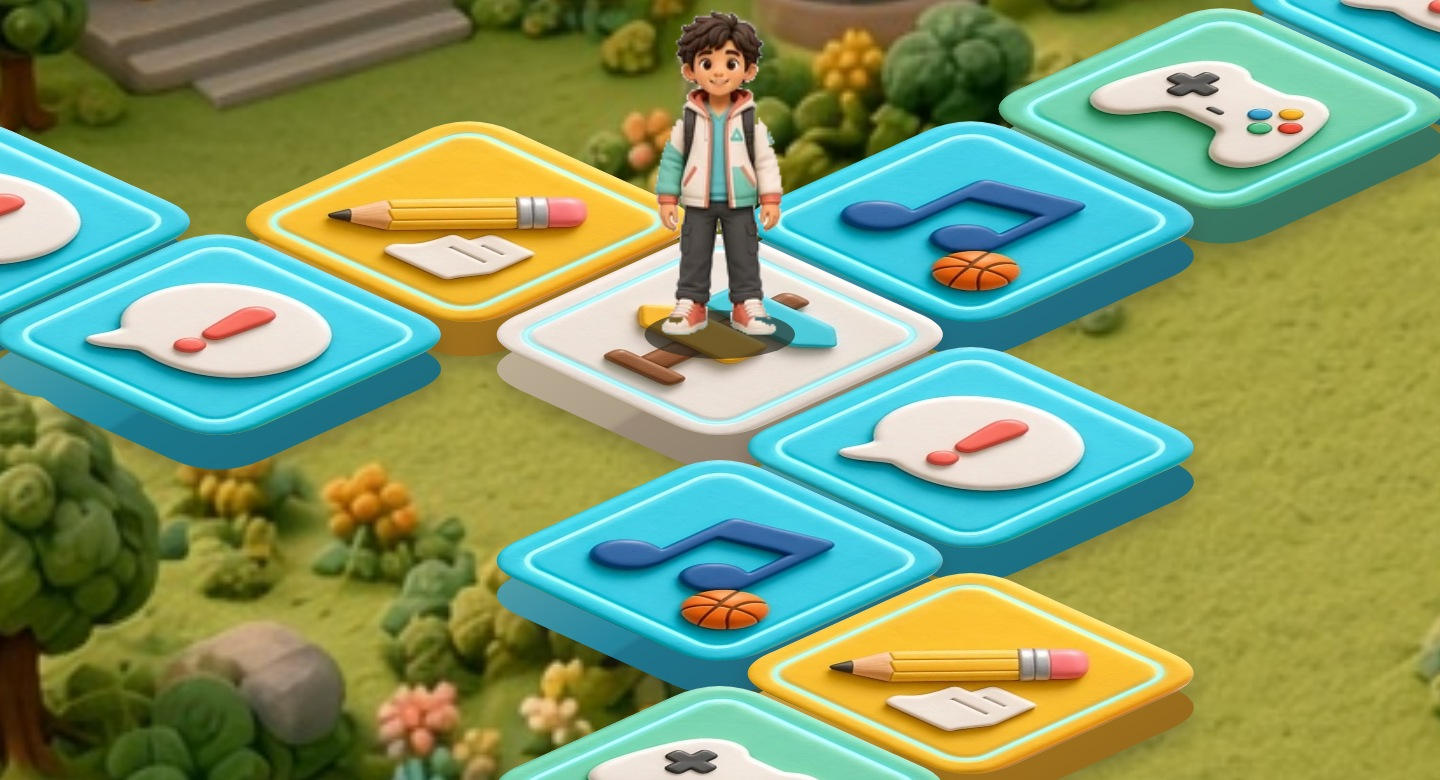
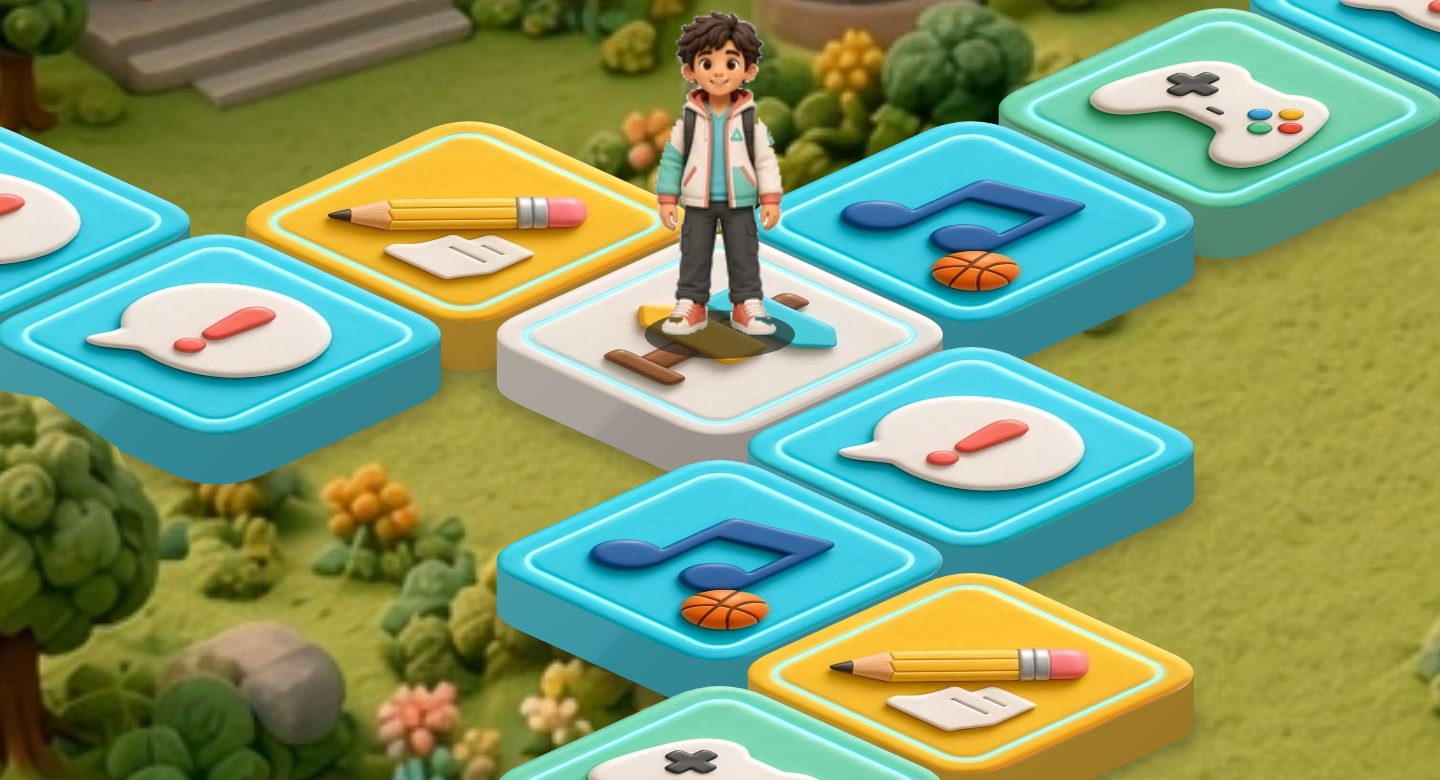
將地磚側壁改為實心厚板並補上接地陰影

diff --git a/src/board-view.ts b/src/board-view.ts
@@ -17,14 +17,14 @@ const sprite = (name: string) => sprites[`./board-art/${name}.webp`];
 type Pose = "stand" | "left" | "right" | "win";
 // Love art is part of the tilesheet, while the junior rules use seven kinds.
 const claySides = {
-  start: "#bb801d",
-  event: "#16869e",
-  game: "#398b71",
-  club: "#1a829d",
-  quiz: "#b7831b",
-  contest: "#bd5d32",
-  love: "#b34f60",
-  fork: "#a99a84",
+  start: "#af8727",
+  event: "#3293a1",
+  game: "#55947b",
+  club: "#3293a1",
+  quiz: "#af8727",
+  contest: "#af5e2e",
+  love: "#af5857",
+  fork: "#a59e97",
 } satisfies Record<TileKind | "love", string>;
 
 export function boardView(
@@ -36,7 +36,13 @@ export function boardView(
   debug: boolean,
   follow: (point: { x: number; y: number }) => void,
 ) {
-  const { centers, wall, tileTop } = measureTrack(layout);
+  const {
+    centers,
+    body,
+    footprint,
+    depth: thickness,
+    tileTop,
+  } = measureTrack(layout);
   const pawnWidth = (layout.pawnHeight * 116) / 197;
   const pawnLabel = gender === "boy" ? "男主角棋子" : "女主角棋子";
   const scenery = juniorScenery[orientation].map((object, id) => {
@@ -55,9 +61,9 @@ export function boardView(
       y: center.y,
       markup: `<g class="board-tile" data-depth="${center.y}" data-kind="${kind}" data-tile="${id}" role="img" aria-label="${tileLabels[kind]}">
         <g transform="translate(${center.x} ${center.y})">
-          <use href="#clay-wall" class="paver-shadow" transform="translate(0 1.6)"/>
-          <use href="#clay-wall" fill="${claySides[kind]}"/>
-          <use href="#clay-wall" fill="url(#clay-side-light)"/>
+          <use href="#clay-footprint" class="paver-shadow" transform="translate(0 ${thickness})"/>
+          <use href="#clay-body" fill="${claySides[kind]}"/>
+          <use href="#clay-body" fill="url(#clay-side-light)"/>
         </g>
         <image class="paver-top" href="${sprite(`${kind}-clay`)}" x="-.5" y="-.5" width="1" height="1" preserveAspectRatio="none" transform="${tileTop(center)}" clip-path="url(#clay-top)"/>
       </g>`,
@@ -66,17 +72,18 @@ export function boardView(
   svg.setAttribute("viewBox", `0 0 ${layout.width} ${layout.height}`);
   svg.innerHTML = `
     <defs>
-      <path id="clay-wall" d="${wall}"/>
+      <path id="clay-body" d="${body}"/>
+      <path id="clay-footprint" d="${footprint}"/>
       <clipPath id="clay-top" clipPathUnits="objectBoundingBox">
         <path d="M ${clayRadius} 0 H ${1 - clayRadius} Q 1 0 1 ${clayRadius}
           V ${1 - clayRadius} Q 1 1 ${1 - clayRadius} 1 H ${clayRadius}
           Q 0 1 0 ${1 - clayRadius} V ${clayRadius} Q 0 0 ${clayRadius} 0 Z"/>
       </clipPath>
       <linearGradient id="clay-side-light" x2="100%" y2="56%">
-        <stop stop-color="#fff2d2" stop-opacity=".3"/>
+        <stop stop-color="#fff2d2" stop-opacity=".12"/>
         <stop offset=".49" stop-color="#fff2d2" stop-opacity=".04"/>
-        <stop offset=".52" stop-color="#352122" stop-opacity=".13"/>
-        <stop offset="1" stop-color="#352122" stop-opacity=".26"/>
+        <stop offset=".52" stop-color="#352122" stop-opacity=".07"/>
+        <stop offset="1" stop-color="#352122" stop-opacity=".15"/>
       </linearGradient>
       <image id="scene-art" href="${assets.junior[orientation]}" width="${layout.width}" height="${layout.height}" preserveAspectRatio="none"/>
       ${scenery

diff --git a/src/board-track.ts b/src/board-track.ts
@@ -13,23 +13,28 @@ export const clayRadius = 0.19;
 export function measureTrack(layout: BoardLayout) {
   const w = layout.halfWidth * 0.982;
   const h = layout.halfHeight * 0.982;
-  const depth = 5.5;
+  const depth = w * 0.2;
   const roundX = w * clayRadius;
   const roundY = h * clayRadius;
   const outerX = w - roundX;
   const frontY = h - roundY;
-  // The two rounded front faces are extruded vertically in screen space.
-  const wall = `M ${-outerX} ${-roundY}
-    Q ${-w} 0 ${-outerX} ${roundY}
-    L ${-roundX} ${frontY} Q 0 ${h} ${roundX} ${frontY}
-    L ${outerX} ${roundY} Q ${w} 0 ${outerX} ${-roundY}
-    V ${depth - roundY} Q ${w} ${depth} ${outerX} ${depth + roundY}
-    L ${roundX} ${depth + frontY} Q 0 ${depth + h} ${-roundX} ${depth + frontY}
-    L ${-outerX} ${depth + roundY} Q ${-w} ${depth} ${-outerX} ${depth - roundY} Z`;
+  const sideX = w - roundX / 2;
+  // Split the left and right corner curves at their vertical tangents.
+  // The upper and lower contours then connect without gaps or folded edges.
+  const behind = `M ${-sideX} 0
+    Q ${-sideX} ${-roundY / 2} ${-outerX} ${-roundY}
+    L ${-roundX} ${-frontY} Q 0 ${-h} ${roundX} ${-frontY}
+    L ${outerX} ${-roundY} Q ${sideX} ${-roundY / 2} ${sideX} 0`;
+  const front = (y: number) =>
+    `Q ${sideX} ${y + roundY / 2} ${outerX} ${y + roundY}
+    L ${roundX} ${y + frontY} Q 0 ${y + h} ${-roundX} ${y + frontY}
+    L ${-outerX} ${y + roundY} Q ${-sideX} ${y + roundY / 2} ${-sideX} ${y}`;
+  const body = `${behind} V ${depth} ${front(depth)} Z`;
+  const footprint = `${behind} ${front(0)} Z`;
   const centers = layout.cells.map((cell) => project(layout, cell));
   const tileTop = ({ x, y }: (typeof centers)[number]) =>
     `matrix(${w} ${h} ${-w} ${h} ${x} ${y})`;
-  return { centers, wall, tileTop };
+  return { centers, body, footprint, depth, tileTop };
 }
 
 export function debugGrid(layout: BoardLayout) {

diff --git a/src/junior-board.css b/src/junior-board.css
@@ -43,7 +43,9 @@
 }
 .paver-shadow {
   fill: #352d23;
-  opacity: 0.32;
+  stroke: #352d23;
+  stroke-width: 2.5px;
+  opacity: 0.42;
   filter: blur(1.8px);
 }
 .pawn-shadow {
